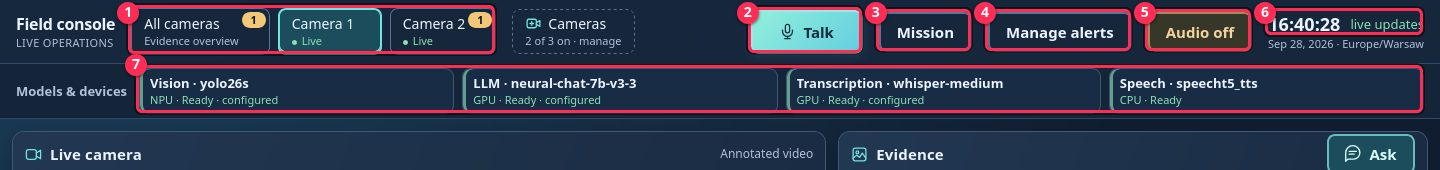
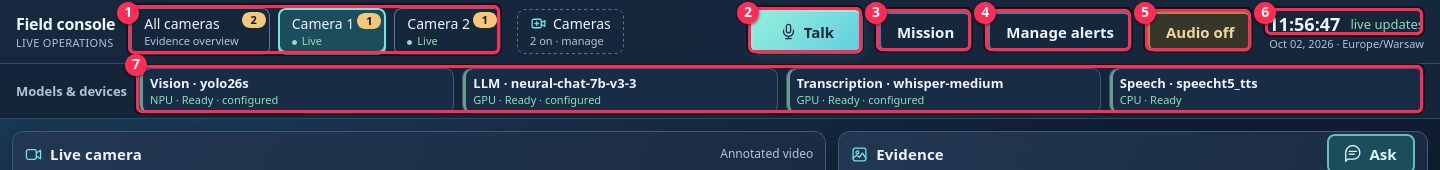
Operator guide: refresh screenshots for current UI
Regenerate the top bar, model details, cameras, evidence and voice screenshots: no camera limit or Camera 3, Audio on replaces Stop audio, and the evidence shot marks the Newer/Older pager (new item 9).

diff --git a/handheld-multi-modal/docs/OPERATOR_GUIDE.md b/handheld-multi-modal/docs/OPERATOR_GUIDE.md
@@ -215,11 +215,10 @@ After **View** the Evidence panel shows only that alert:
    arrived meanwhile.
 7. **Object card / row** — click to open its images.
 8. **Ask** — open the assistant.
-
-History lists show 50 tracks per page. When there are more, **‹ Newer** and
-**Older ›** appear below the list. With All cameras, each page holds the next
-50 tracks of every camera. Older pages are snapshots; page 1 stays live.
-Changing camera, view or filters returns to page 1.
+9. **‹ Newer / Older ›** — History lists show 50 tracks per page; these
+   buttons appear below the list when there are more. With All cameras, each
+   page holds the next 50 tracks of every camera. Older pages are snapshots;
+   page 1 stays live. Changing camera, view or filters returns to page 1.
 
 ### While you were away
 
